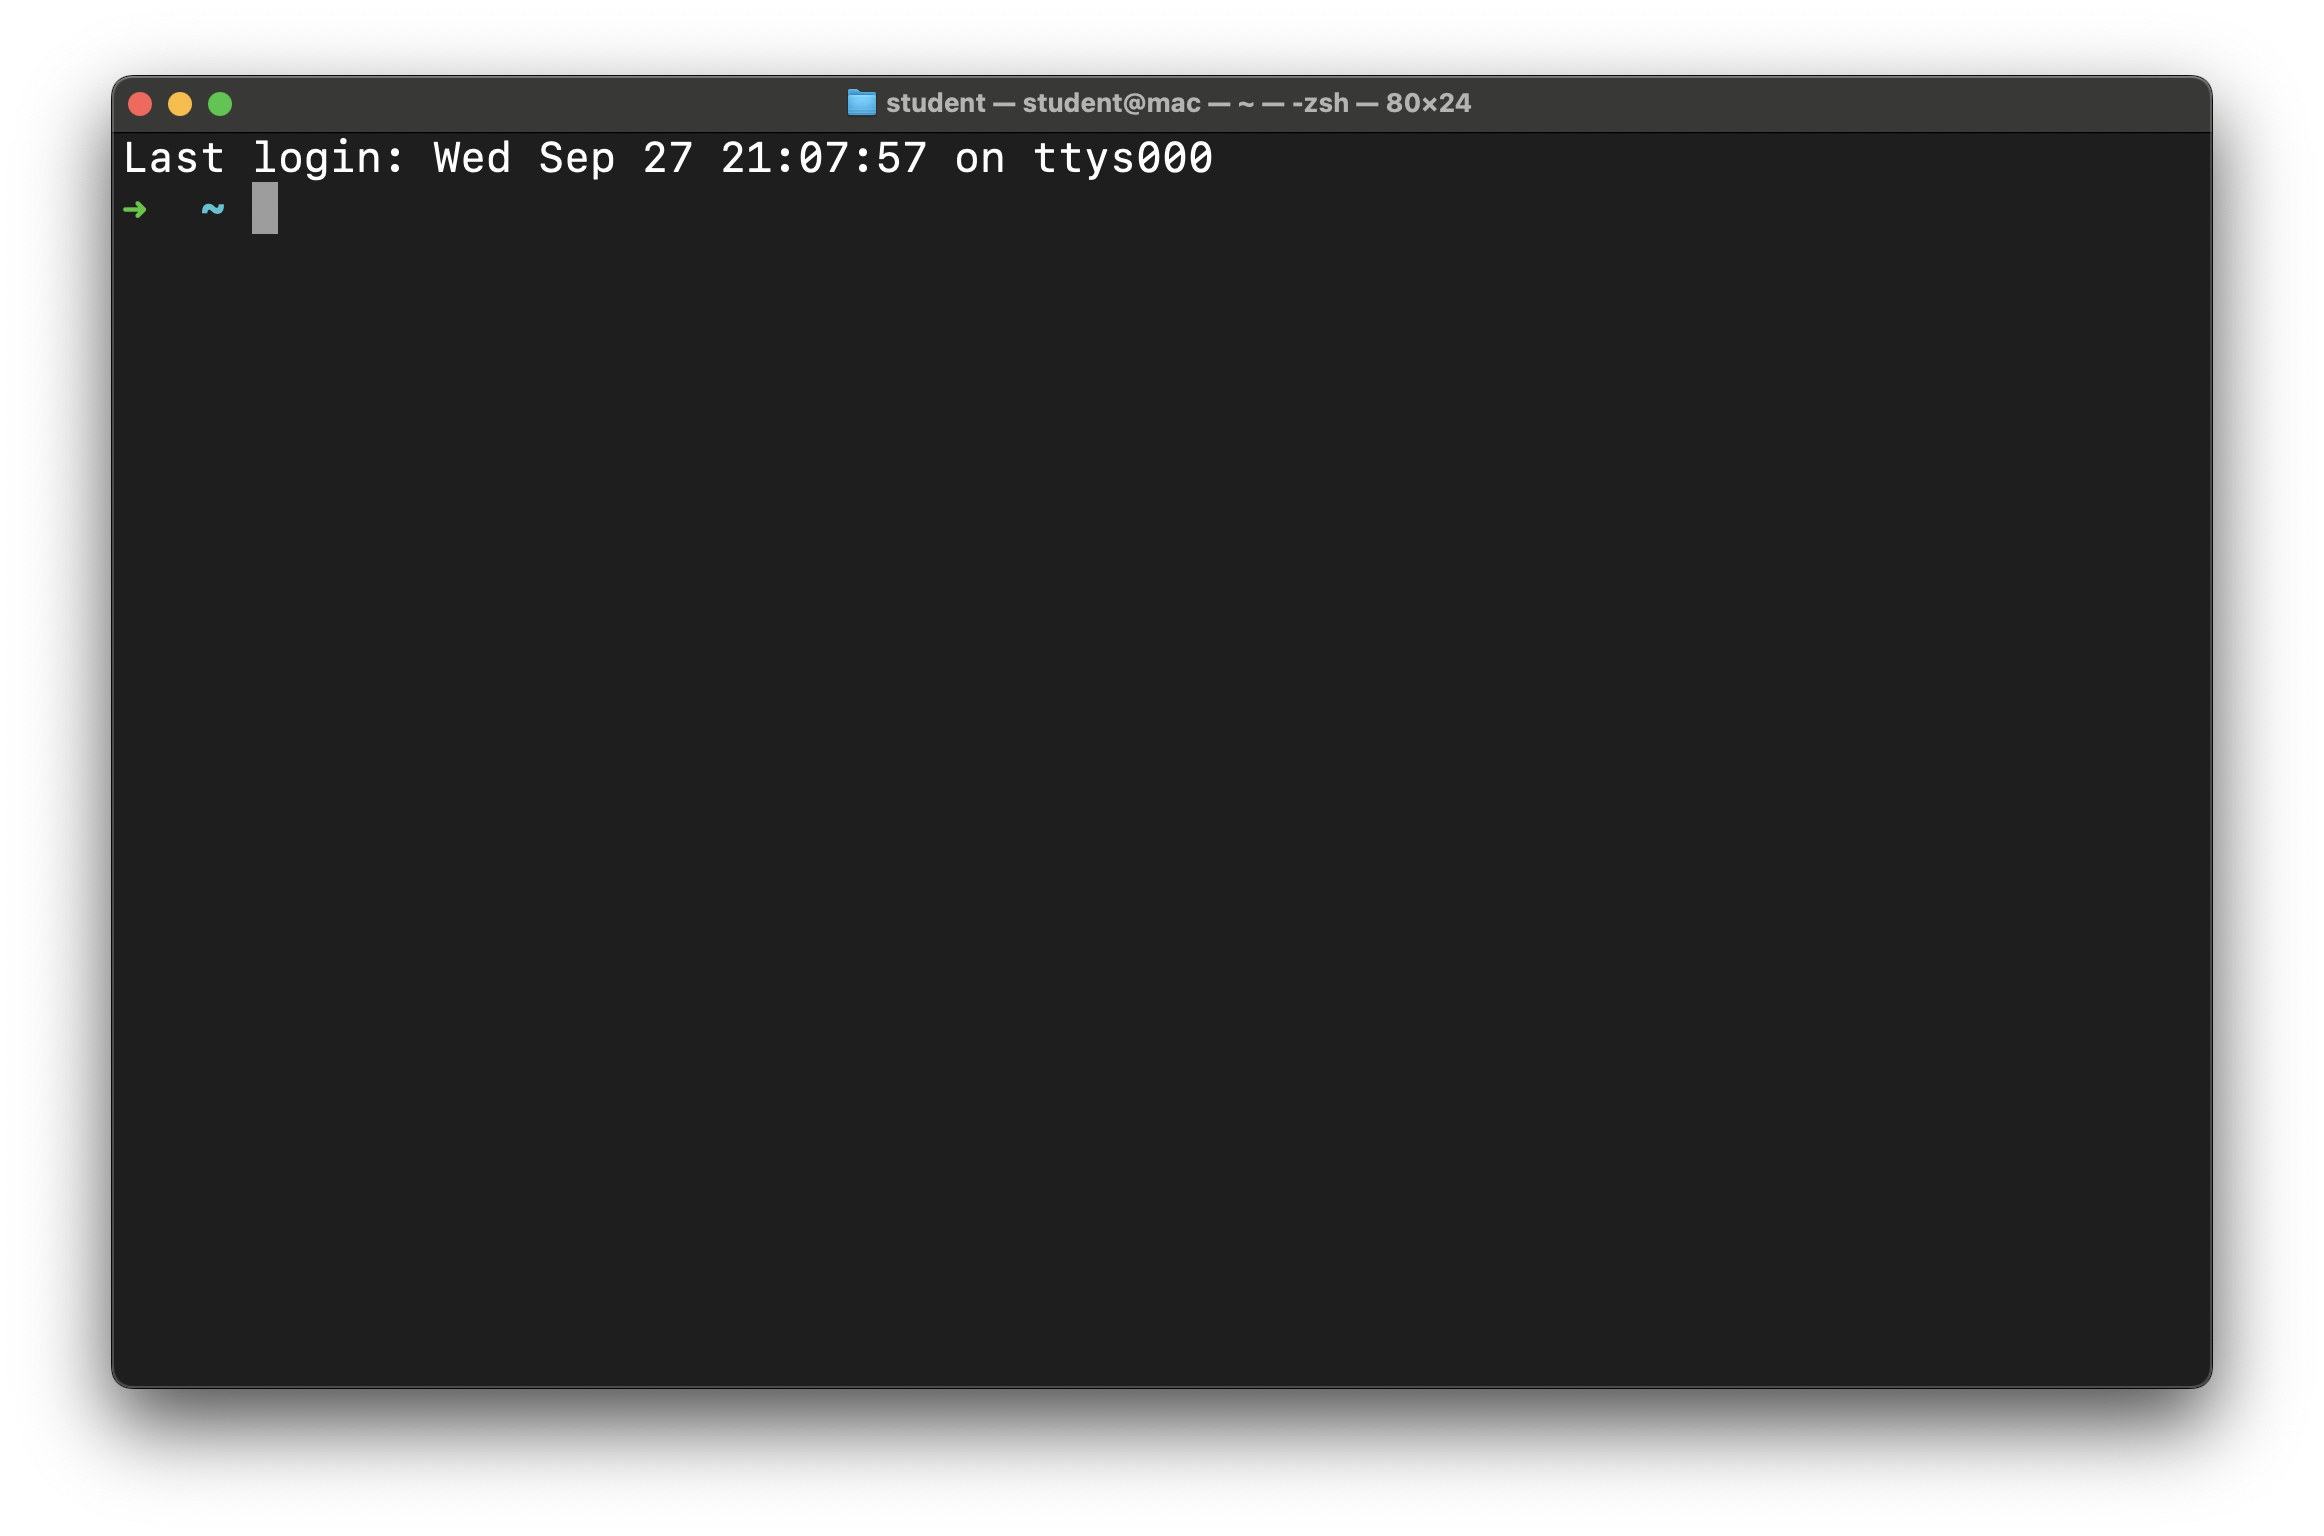
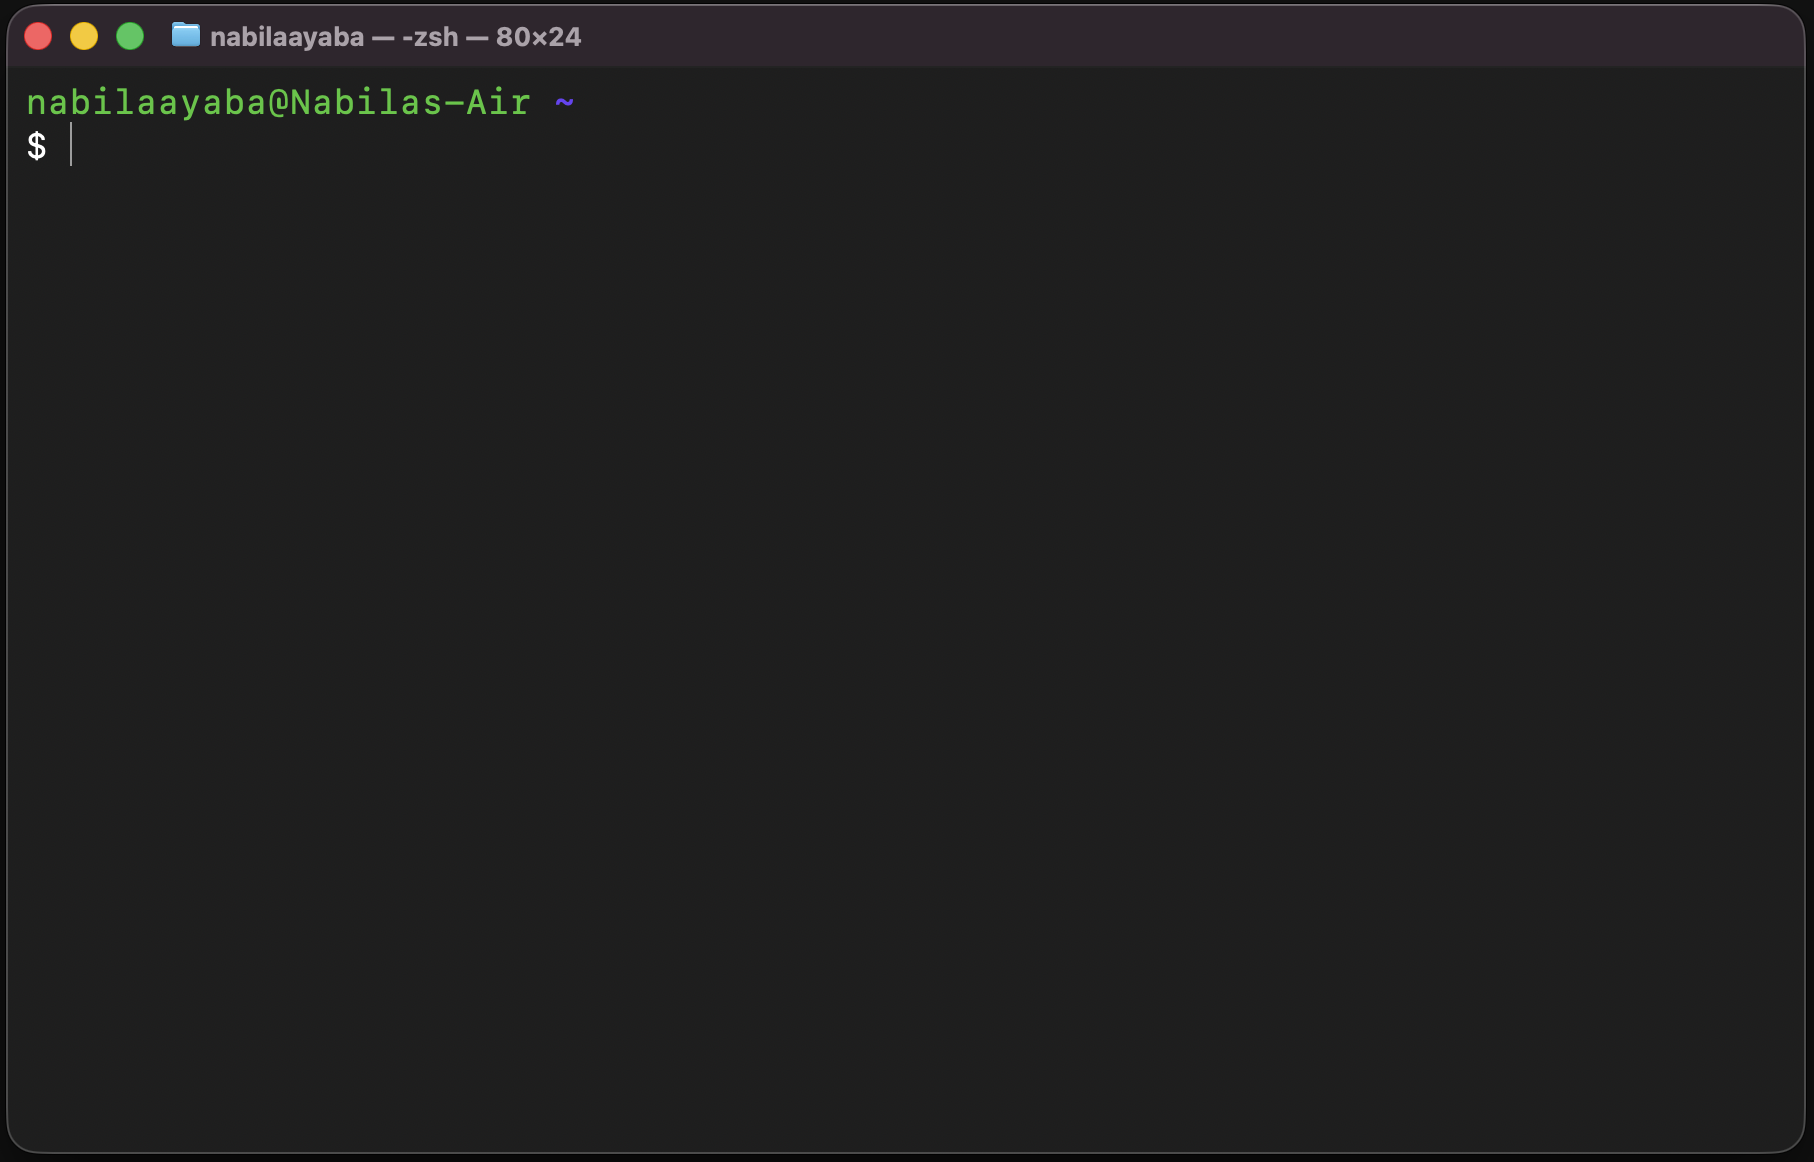
Update terminal prompt image and example prompt

Changed region(s): [[0.0, 0.0, 1.0, 1.0]]

diff --git a/fundamentals/README.md b/fundamentals/README.md
@@ -9,17 +9,19 @@
 
 How you open your terminal application will depend upon your OS.
 
-### macOS
+#### macOS
 
 In macOS, use Spotlight to search for and open Terminal. Press `⌘ Command` + `Space` to open Spotlight and search for `Terminal`. Press `Enter` to open it.
 
-### Windows
+#### Windows
 
-If you have not completed Installfest, you won't have your Terminal configured yet. Sit back and take everything in!
+Use your `⊞ Windows key` to search for `Git Bash` and launch it. 
 
-If you have completed Installfest, use your system search to launch the Windows Terminal application in Windows 10 or the Terminal application in Windows 11. Despite the difference in names, a search for `Terminal` should work on either OS.
+![The Git Bash app in Windows](./assets/git-bash.png)
 
-### Ubuntu
+<details>
+
+<summary> <b> Ubuntu </b>  </summary>
 
 Ubuntu is cool and has a built-in keyboard shortcut to launch the Terminal application: `Ctrl` + `Alt` + `T`.
 
@@ -29,21 +31,30 @@ A quick note on the Ubuntu Terminal - copying and pasting uses a different keybo
 
 To copy from the Ubuntu terminal, use `Ctrl` + `Shift` + `C`. To paste text in the Ubuntu terminal, use `Ctrl` + `Shift` + `V`.
 
+</details>
+
+
 ## The terminal interface
 
 Regardless of your operating system, when your terminal application launches, you should see a window similar to the following:
 
 ![The terminal app in macOS](./assets/terminal.png)
 
-Note that this terminal is running Oh My Zsh. If you have not installed Oh My Zsh, it will look different. The concepts and commands discussed in this lecture will be identical, even if you have not installed Oh My Zsh.
 
 Here, you'll see the *prompt*. Let's dissect it:
 
-![The anatomy of the command line. The ➜ is denoted with 1. The ~ is denoted with 2. The █ is denoted with 3.](./assets/command-line-anatomy.png)
+```bash
+Omar@DESKTOP-ABC123 MINGW64 ~/code
+$
+```
 
-1. The arrow `➜` indicates that the computer is ready to receive input. We can type commands on this line, and they can be executed.
-2. The tilde `~` indicates our current location in the file system. We'll cover this more soon.
-3. The cursor `█`. When you start typing, this is where the text will appear and is how we write commands to be executed.
+Breakdown:
+
+- **Omar** → your username
+- **DESKTOP-ABC123** → your computer name
+- **MINGW64** → the shell environment
+- **~/code** → your current folder
+- **$** → ready for a command
 
 > 📚 The *prompt* is a sequence of characters used in a command-line interface to indicate readiness to accept commands.
 

diff --git a/references/README.md b/references/README.md
@@ -6,3 +6,5 @@
 ## Lesson references
 
 - [MDN Command line crash course](https://developer.mozilla.org/en-US/docs/Learn/Tools_and_testing/Understanding_client-side_tools/Command_line)
+
+- [Source for Git Bash terminal image](https://medium.suriyaprakhash.com/git-bash-tab-in-windows-terminal-24970eac6da5)
